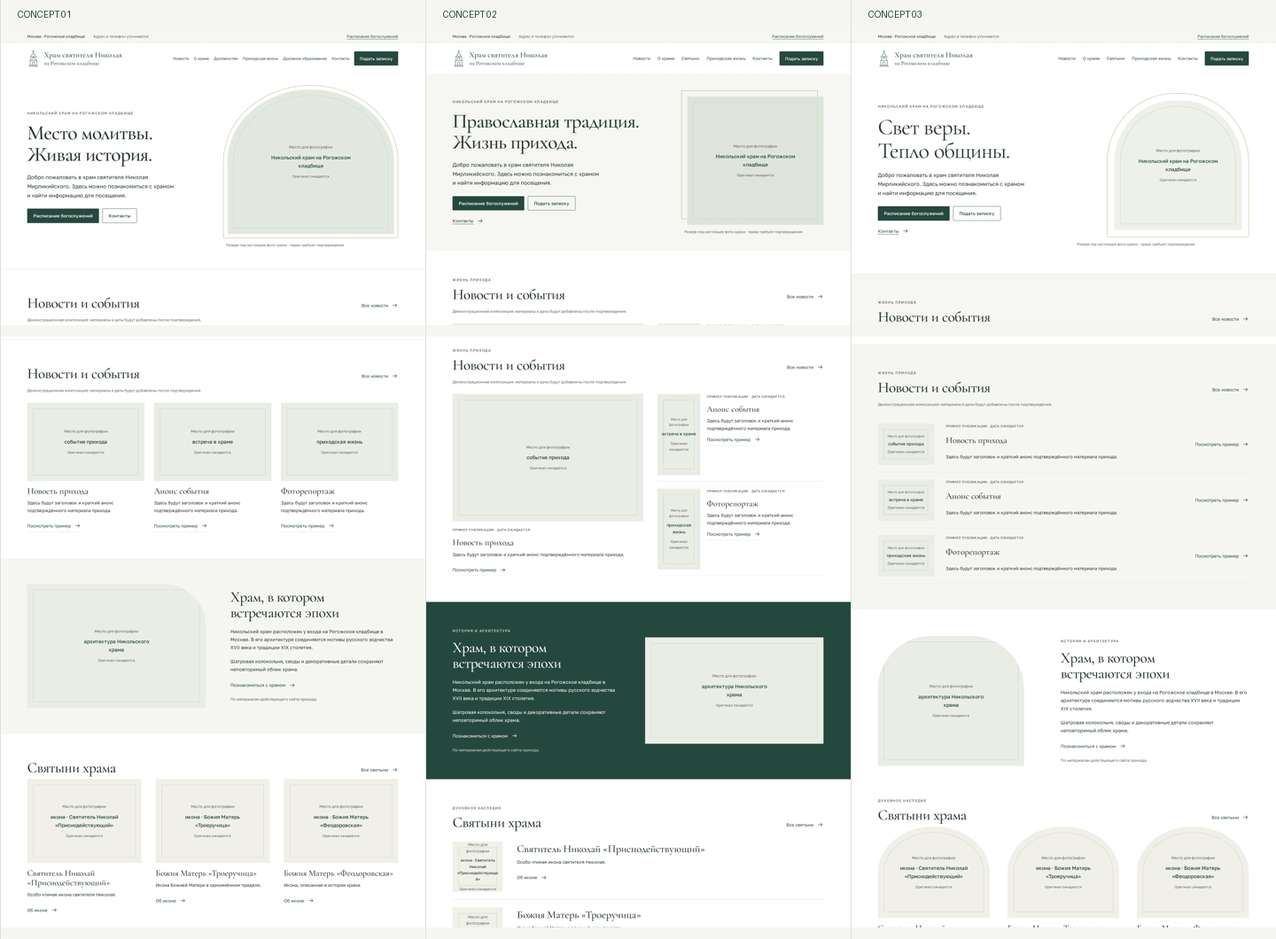
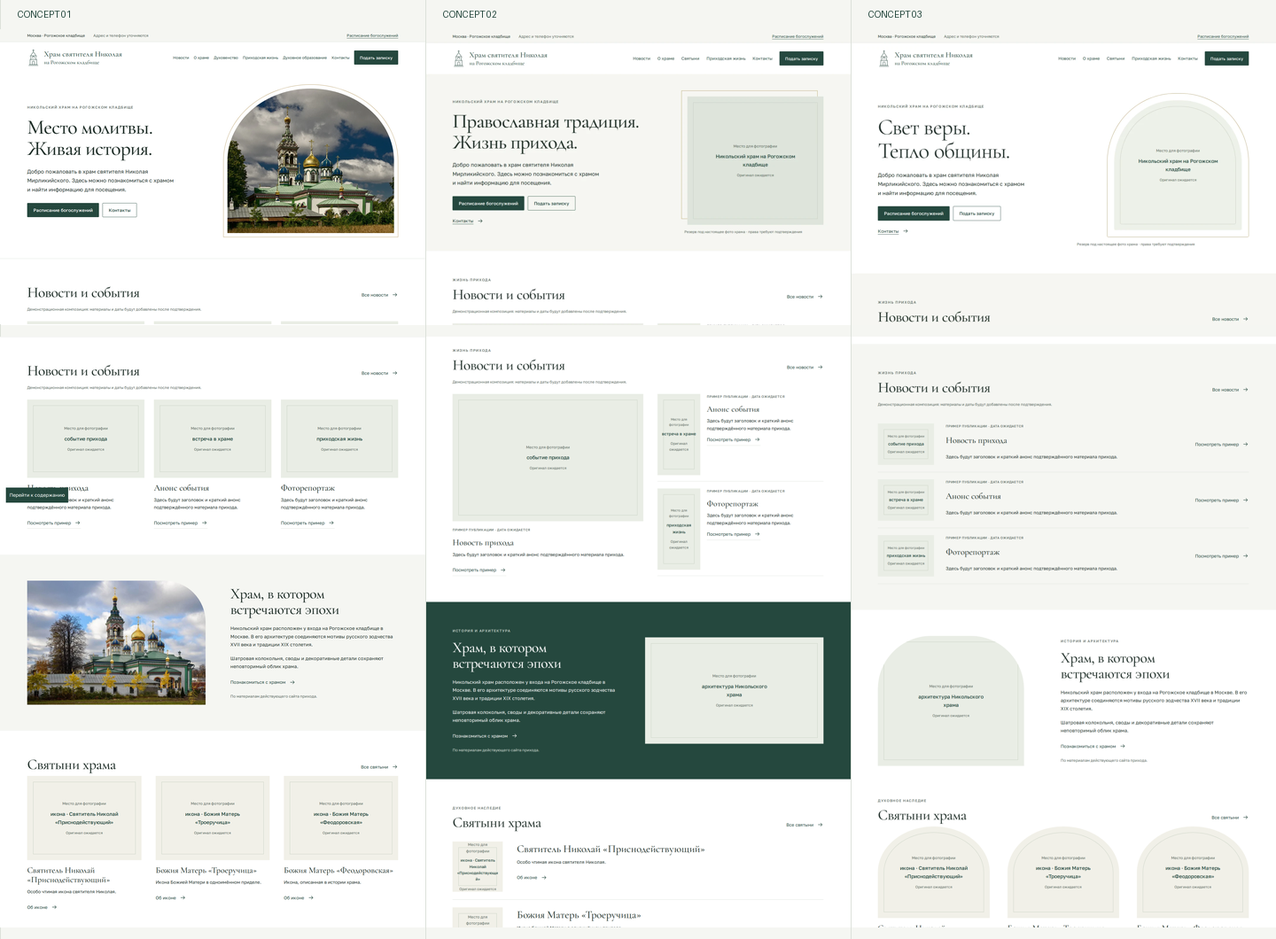
Integrate provided temple photos into selected homepage

diff --git a/concepts/concept-01.html b/concepts/concept-01.html
@@ -3,9 +3,9 @@
 <body class="concept-01"><a class="skip-link" href="#main">Перейти к содержанию</a>
 <header><div class="topbar"><div class="container topbar-inner"><span>Москва · Рогожское кладбище</span><span class="contact-pending">Адрес и телефон уточняются</span><button type="button" class="utility-link" data-page="Расписание богослужений" data-path="pages/schedule.html">Расписание богослужений</button></div></div>
 <div class="container main-header"><a class="brand" href="#main" aria-label="Храм святителя Николая на Рогожском кладбище"><img src="../images/temple-mark.svg" alt="" width="42" height="58"><span>Храм святителя Николая<small>на Рогожском кладбище</small></span></a><button class="menu-toggle btn btn-outline-primary" aria-expanded="false" aria-controls="primary-nav">Меню</button><nav id="primary-nav" aria-label="Основная навигация"><a href="#news">Новости</a><a href="#about">О храме</a><button type="button" class="nav-link-button" data-page="Духовенство" data-path="pages/clergy.html">Духовенство</button><a href="#community">Приходская жизнь</a><button type="button" class="nav-link-button" data-page="Духовное образование" data-path="pages/education.html">Духовное образование</button><a href="#contacts">Контакты</a><button type="button" class="btn btn-primary" data-page="Подать записку" data-path="pages/notes.html">Подать записку</button></nav></div></header>
-<main id="main"><section class="hero"><div class="container"><div class="row align-items-center g-5"><div class="col-md-6 hero-copy"><p class="eyebrow">Никольский храм на Рогожском кладбище</p><h1>Место молитвы.<br>Живая история.</h1><p class="lead">Добро пожаловать в храм святителя Николая Мирликийского. Здесь можно познакомиться с храмом и найти информацию для посещения.</p><div class="hero-actions"><button type="button" class="btn btn-primary" data-page="Расписание богослужений" data-path="pages/schedule.html">Расписание богослужений</button><a class="btn btn-outline-primary" href="#contacts">Контакты</a></div></div><div class="col-md-6 hero-art"><div class="hero-frame"><div class="media-placeholder hero-media" role="img" aria-label="Место для фотографии: Никольский храм на Рогожском кладбище. Оригинал ожидается"><span class="media-line" aria-hidden="true"></span><span class="media-caption">Место для фотографии<br><strong>Никольский храм на Рогожском кладбище</strong><small>Оригинал ожидается</small></span></div></div><p class="photo-note">Резерв под настоящее фото храма · права требуют подтверждения</p></div></div></div></section>
+<main id="main"><section class="hero"><div class="container"><div class="row align-items-center g-5"><div class="col-md-6 hero-copy"><p class="eyebrow">Никольский храм на Рогожском кладбище</p><h1>Место молитвы.<br>Живая история.</h1><p class="lead">Добро пожаловать в храм святителя Николая Мирликийского. Здесь можно познакомиться с храмом и найти информацию для посещения.</p><div class="hero-actions"><button type="button" class="btn btn-primary" data-page="Расписание богослужений" data-path="pages/schedule.html">Расписание богослужений</button><a class="btn btn-outline-primary" href="#contacts">Контакты</a></div></div><div class="col-md-6 hero-art"><div class="hero-frame"><div class="temple-photo hero-media"><img src="../images/temple/temple-hero-800.webp" srcset="../images/temple/temple-hero-480.webp 480w, ../images/temple/temple-hero-800.webp 800w, ../images/temple/temple-hero-1200.webp 1200w" sizes="(min-width: 1400px) 620px, (min-width: 1200px) 530px, (min-width: 992px) 440px, (min-width: 768px) 330px, calc(100vw - 68px)" width="1200" height="904" alt="Никольский храм на Рогожском кладбище: колокольня и купола" decoding="async" fetchpriority="high" loading="eager"></div></div></div></div></div></section>
 <section id="news" class="section news-section"><div class="container"><div class="section-heading"><div><h2>Новости и события</h2></div><button type="button" class="text-link" data-page="Все новости" data-path="pages/news.html">Все новости<svg class="arrow" viewBox="0 0 24 24" aria-hidden="true"><path d="M4 12h15m-6-6 6 6-6 6"/></svg></button></div><p class="demo-note">Демонстрационная композиция: материалы и даты будут добавлены после подтверждения.</p><div class="news-layout"><article class="news-item"><div class="media-placeholder news-media" role="img" aria-label="Место для фотографии: событие прихода. Оригинал ожидается"><span class="media-line" aria-hidden="true"></span><span class="media-caption">Место для фотографии<br><strong>событие прихода</strong><small>Оригинал ожидается</small></span></div><div class="news-copy"><h3>Новость прихода</h3><p>Здесь будут заголовок и краткий анонс подтверждённого материала прихода.</p><button type="button" class="text-link" data-page="Посмотреть пример" data-path="pages/news-article.html">Посмотреть пример<svg class="arrow" viewBox="0 0 24 24" aria-hidden="true"><path d="M4 12h15m-6-6 6 6-6 6"/></svg></button></div></article><article class="news-item"><div class="media-placeholder news-media" role="img" aria-label="Место для фотографии: встреча в храме. Оригинал ожидается"><span class="media-line" aria-hidden="true"></span><span class="media-caption">Место для фотографии<br><strong>встреча в храме</strong><small>Оригинал ожидается</small></span></div><div class="news-copy"><h3>Анонс события</h3><p>Здесь будут заголовок и краткий анонс подтверждённого материала прихода.</p><button type="button" class="text-link" data-page="Посмотреть пример" data-path="pages/news-article.html">Посмотреть пример<svg class="arrow" viewBox="0 0 24 24" aria-hidden="true"><path d="M4 12h15m-6-6 6 6-6 6"/></svg></button></div></article><article class="news-item"><div class="media-placeholder news-media" role="img" aria-label="Место для фотографии: приходская жизнь. Оригинал ожидается"><span class="media-line" aria-hidden="true"></span><span class="media-caption">Место для фотографии<br><strong>приходская жизнь</strong><small>Оригинал ожидается</small></span></div><div class="news-copy"><h3>Фоторепортаж</h3><p>Здесь будут заголовок и краткий анонс подтверждённого материала прихода.</p><button type="button" class="text-link" data-page="Посмотреть пример" data-path="pages/news-article.html">Посмотреть пример<svg class="arrow" viewBox="0 0 24 24" aria-hidden="true"><path d="M4 12h15m-6-6 6 6-6 6"/></svg></button></div></article></div></div></section>
-<section id="about" class="section about-section"><div class="container"><div class="row align-items-center g-5"><div class="col-md-6 about-art"><div class="media-placeholder about-media" role="img" aria-label="Место для фотографии: архитектура Никольского храма. Оригинал ожидается"><span class="media-line" aria-hidden="true"></span><span class="media-caption">Место для фотографии<br><strong>архитектура Никольского храма</strong><small>Оригинал ожидается</small></span></div></div><div class="col-md-6 about-copy"><h2>Храм, в котором<br>встречаются эпохи</h2><p>Никольский храм расположен у входа на Рогожское кладбище в Москве. В его архитектуре соединяются мотивы русского зодчества XVII века и традиции XIX столетия.</p><p>Шатровая колокольня, своды и декоративные детали сохраняют неповторимый облик храма.</p><button type="button" class="text-link" data-page="Познакомиться с храмом" data-path="pages/about.html">Познакомиться с храмом<svg class="arrow" viewBox="0 0 24 24" aria-hidden="true"><path d="M4 12h15m-6-6 6 6-6 6"/></svg></button><p class="source-note">По материалам действующего сайта прихода.</p></div></div></div></section>
+<section id="about" class="section about-section"><div class="container"><div class="row align-items-center g-5"><div class="col-md-6 about-art"><div class="temple-photo about-media"><img src="../images/temple/temple-about-800.webp" srcset="../images/temple/temple-about-480.webp 480w, ../images/temple/temple-about-800.webp 800w, ../images/temple/temple-about-1000.webp 1000w" sizes="(min-width: 1400px) 620px, (min-width: 1200px) 530px, (min-width: 992px) 440px, (min-width: 768px) 330px, calc(100vw - 68px)" width="1000" height="695" alt="Общий вид Никольского храма на Рогожском кладбище" decoding="async" loading="lazy"></div></div><div class="col-md-6 about-copy"><h2>Храм, в котором<br>встречаются эпохи</h2><p>Никольский храм расположен у входа на Рогожское кладбище в Москве. В его архитектуре соединяются мотивы русского зодчества XVII века и традиции XIX столетия.</p><p>Шатровая колокольня, своды и декоративные детали сохраняют неповторимый облик храма.</p><button type="button" class="text-link" data-page="Познакомиться с храмом" data-path="pages/about.html">Познакомиться с храмом<svg class="arrow" viewBox="0 0 24 24" aria-hidden="true"><path d="M4 12h15m-6-6 6 6-6 6"/></svg></button><p class="source-note">По материалам действующего сайта прихода.</p></div></div></div></section>
 <section id="shrines" class="section shrine-section"><div class="container"><div class="section-heading"><div><h2>Святыни храма</h2></div><button type="button" class="text-link" data-page="Все святыни" data-path="pages/shrines.html">Все святыни<svg class="arrow" viewBox="0 0 24 24" aria-hidden="true"><path d="M4 12h15m-6-6 6 6-6 6"/></svg></button></div><div class="shrine-layout"><article class="shrine-item"><div class="media-placeholder shrine-media" role="img" aria-label="Место для фотографии: икона · Святитель Николай «Приснодействующий». Оригинал ожидается"><span class="media-line" aria-hidden="true"></span><span class="media-caption">Место для фотографии<br><strong>икона · Святитель Николай «Приснодействующий»</strong><small>Оригинал ожидается</small></span></div><div><h3>Святитель Николай «Приснодействующий»</h3><p>Особо чтимая икона святителя Николая.</p><button type="button" class="text-link" data-page="Об иконе" data-path="pages/shrine.html">Об иконе<svg class="arrow" viewBox="0 0 24 24" aria-hidden="true"><path d="M4 12h15m-6-6 6 6-6 6"/></svg></button></div></article><article class="shrine-item"><div class="media-placeholder shrine-media" role="img" aria-label="Место для фотографии: икона · Божия Матерь «Троеручица». Оригинал ожидается"><span class="media-line" aria-hidden="true"></span><span class="media-caption">Место для фотографии<br><strong>икона · Божия Матерь «Троеручица»</strong><small>Оригинал ожидается</small></span></div><div><h3>Божия Матерь «Троеручица»</h3><p>Икона Божией Матери в одноимённом приделе.</p><button type="button" class="text-link" data-page="Об иконе" data-path="pages/shrine.html">Об иконе<svg class="arrow" viewBox="0 0 24 24" aria-hidden="true"><path d="M4 12h15m-6-6 6 6-6 6"/></svg></button></div></article><article class="shrine-item"><div class="media-placeholder shrine-media" role="img" aria-label="Место для фотографии: икона · Божия Матерь «Феодоровская». Оригинал ожидается"><span class="media-line" aria-hidden="true"></span><span class="media-caption">Место для фотографии<br><strong>икона · Божия Матерь «Феодоровская»</strong><small>Оригинал ожидается</small></span></div><div><h3>Божия Матерь «Феодоровская»</h3><p>Икона, описанная в истории храма.</p><button type="button" class="text-link" data-page="Об иконе" data-path="pages/shrine.html">Об иконе<svg class="arrow" viewBox="0 0 24 24" aria-hidden="true"><path d="M4 12h15m-6-6 6 6-6 6"/></svg></button></div></article></div></div></section>
 <section id="community" class="section community-section"><div class="container"><div class="community-layout"><div class="community-copy"><h2>Приходская жизнь</h2><p class="lead">Вера объединяет людей.</p><p>В этом разделе будут рассказы о людях прихода, встречах и совместных делах.</p><p class="demo-note">Демонстрационный анонс. Направления деятельности и фотографии ожидают подтверждения.</p><nav class="community-links" aria-label="Направления приходской жизни"><button type="button" class="text-link" data-page="Жизнь прихода" data-path="pages/community.html">Жизнь прихода<svg class="arrow" viewBox="0 0 24 24" aria-hidden="true"><path d="M4 12h15m-6-6 6 6-6 6"/></svg></button><button type="button" class="text-link" data-page="Воскресная школа" data-path="pages/sunday-school.html">Воскресная школа<svg class="arrow" viewBox="0 0 24 24" aria-hidden="true"><path d="M4 12h15m-6-6 6 6-6 6"/></svg></button><button type="button" class="text-link" data-page="Детские кружки" data-path="pages/children-activities.html">Детские кружки<svg class="arrow" viewBox="0 0 24 24" aria-hidden="true"><path d="M4 12h15m-6-6 6 6-6 6"/></svg></button><button type="button" class="text-link" data-page="Занятия для взрослых" data-path="pages/adult-classes.html">Занятия для взрослых<svg class="arrow" viewBox="0 0 24 24" aria-hidden="true"><path d="M4 12h15m-6-6 6 6-6 6"/></svg></button></nav></div><div class="media-placeholder community-media" role="img" aria-label="Место для фотографии: люди и события прихода. Оригинал ожидается"><span class="media-line" aria-hidden="true"></span><span class="media-caption">Место для фотографии<br><strong>люди и события прихода</strong><small>Оригинал ожидается</small></span></div></div></div></section>
 <section id="contacts" class="section contacts-section"><div class="container"><div class="row g-5 align-items-center"><div class="col-md-5"><h2>Контакты и карта</h2><p class="lead">Москва<br>Рогожское кладбище</p><dl><dt>Точный адрес</dt><dd>Ожидает подтверждения</dd><dt>Телефон и часы работы</dt><dd>Ожидают подтверждения</dd></dl><button type="button" class="btn btn-outline-primary" data-page="Как добраться" data-path="pages/contacts.html">Как добраться</button></div><div class="col-md-7"><div class="map-placeholder"><span class="map-cross" aria-hidden="true"></span><strong>Яндекс Карта</strong><p>Демонстрационная заглушка</p><small>Подключим после проверки адреса.<br>Маркер не показывает реальное местоположение.</small></div></div></div></div></section></main>

diff --git a/index.html b/index.html
@@ -3,9 +3,9 @@
 <body class="concept-01"><a class="skip-link" href="#main">Перейти к содержанию</a>
 <header><div class="topbar"><div class="container topbar-inner"><span>Москва · Рогожское кладбище</span><span class="contact-pending">Адрес и телефон уточняются</span><button type="button" class="utility-link" data-page="Расписание богослужений" data-path="pages/schedule.html">Расписание богослужений</button></div></div>
 <div class="container main-header"><a class="brand" href="#main" aria-label="Храм святителя Николая на Рогожском кладбище"><img src="images/temple-mark.svg" alt="" width="42" height="58"><span>Храм святителя Николая<small>на Рогожском кладбище</small></span></a><button class="menu-toggle btn btn-outline-primary" aria-expanded="false" aria-controls="primary-nav">Меню</button><nav id="primary-nav" aria-label="Основная навигация"><a href="#news">Новости</a><a href="#about">О храме</a><button type="button" class="nav-link-button" data-page="Духовенство" data-path="pages/clergy.html">Духовенство</button><a href="#community">Приходская жизнь</a><button type="button" class="nav-link-button" data-page="Духовное образование" data-path="pages/education.html">Духовное образование</button><a href="#contacts">Контакты</a><button type="button" class="btn btn-primary" data-page="Подать записку" data-path="pages/notes.html">Подать записку</button></nav></div></header>
-<main id="main"><section class="hero"><div class="container"><div class="row align-items-center g-5"><div class="col-md-6 hero-copy"><p class="eyebrow">Никольский храм на Рогожском кладбище</p><h1>Место молитвы.<br>Живая история.</h1><p class="lead">Добро пожаловать в храм святителя Николая Мирликийского. Здесь можно познакомиться с храмом и найти информацию для посещения.</p><div class="hero-actions"><button type="button" class="btn btn-primary" data-page="Расписание богослужений" data-path="pages/schedule.html">Расписание богослужений</button><a class="btn btn-outline-primary" href="#contacts">Контакты</a></div></div><div class="col-md-6 hero-art"><div class="hero-frame"><div class="media-placeholder hero-media" role="img" aria-label="Место для фотографии: Никольский храм на Рогожском кладбище. Оригинал ожидается"><span class="media-line" aria-hidden="true"></span><span class="media-caption">Место для фотографии<br><strong>Никольский храм на Рогожском кладбище</strong><small>Оригинал ожидается</small></span></div></div><p class="photo-note">Резерв под настоящее фото храма · права требуют подтверждения</p></div></div></div></section>
+<main id="main"><section class="hero"><div class="container"><div class="row align-items-center g-5"><div class="col-md-6 hero-copy"><p class="eyebrow">Никольский храм на Рогожском кладбище</p><h1>Место молитвы.<br>Живая история.</h1><p class="lead">Добро пожаловать в храм святителя Николая Мирликийского. Здесь можно познакомиться с храмом и найти информацию для посещения.</p><div class="hero-actions"><button type="button" class="btn btn-primary" data-page="Расписание богослужений" data-path="pages/schedule.html">Расписание богослужений</button><a class="btn btn-outline-primary" href="#contacts">Контакты</a></div></div><div class="col-md-6 hero-art"><div class="hero-frame"><div class="temple-photo hero-media"><img src="images/temple/temple-hero-800.webp" srcset="images/temple/temple-hero-480.webp 480w, images/temple/temple-hero-800.webp 800w, images/temple/temple-hero-1200.webp 1200w" sizes="(min-width: 1400px) 620px, (min-width: 1200px) 530px, (min-width: 992px) 440px, (min-width: 768px) 330px, calc(100vw - 68px)" width="1200" height="904" alt="Никольский храм на Рогожском кладбище: колокольня и купола" decoding="async" fetchpriority="high" loading="eager"></div></div></div></div></div></section>
 <section id="news" class="section news-section"><div class="container"><div class="section-heading"><div><h2>Новости и события</h2></div><button type="button" class="text-link" data-page="Все новости" data-path="pages/news.html">Все новости<svg class="arrow" viewBox="0 0 24 24" aria-hidden="true"><path d="M4 12h15m-6-6 6 6-6 6"/></svg></button></div><p class="demo-note">Демонстрационная композиция: материалы и даты будут добавлены после подтверждения.</p><div class="news-layout"><article class="news-item"><div class="media-placeholder news-media" role="img" aria-label="Место для фотографии: событие прихода. Оригинал ожидается"><span class="media-line" aria-hidden="true"></span><span class="media-caption">Место для фотографии<br><strong>событие прихода</strong><small>Оригинал ожидается</small></span></div><div class="news-copy"><h3>Новость прихода</h3><p>Здесь будут заголовок и краткий анонс подтверждённого материала прихода.</p><button type="button" class="text-link" data-page="Посмотреть пример" data-path="pages/news-article.html">Посмотреть пример<svg class="arrow" viewBox="0 0 24 24" aria-hidden="true"><path d="M4 12h15m-6-6 6 6-6 6"/></svg></button></div></article><article class="news-item"><div class="media-placeholder news-media" role="img" aria-label="Место для фотографии: встреча в храме. Оригинал ожидается"><span class="media-line" aria-hidden="true"></span><span class="media-caption">Место для фотографии<br><strong>встреча в храме</strong><small>Оригинал ожидается</small></span></div><div class="news-copy"><h3>Анонс события</h3><p>Здесь будут заголовок и краткий анонс подтверждённого материала прихода.</p><button type="button" class="text-link" data-page="Посмотреть пример" data-path="pages/news-article.html">Посмотреть пример<svg class="arrow" viewBox="0 0 24 24" aria-hidden="true"><path d="M4 12h15m-6-6 6 6-6 6"/></svg></button></div></article><article class="news-item"><div class="media-placeholder news-media" role="img" aria-label="Место для фотографии: приходская жизнь. Оригинал ожидается"><span class="media-line" aria-hidden="true"></span><span class="media-caption">Место для фотографии<br><strong>приходская жизнь</strong><small>Оригинал ожидается</small></span></div><div class="news-copy"><h3>Фоторепортаж</h3><p>Здесь будут заголовок и краткий анонс подтверждённого материала прихода.</p><button type="button" class="text-link" data-page="Посмотреть пример" data-path="pages/news-article.html">Посмотреть пример<svg class="arrow" viewBox="0 0 24 24" aria-hidden="true"><path d="M4 12h15m-6-6 6 6-6 6"/></svg></button></div></article></div></div></section>
-<section id="about" class="section about-section"><div class="container"><div class="row align-items-center g-5"><div class="col-md-6 about-art"><div class="media-placeholder about-media" role="img" aria-label="Место для фотографии: архитектура Никольского храма. Оригинал ожидается"><span class="media-line" aria-hidden="true"></span><span class="media-caption">Место для фотографии<br><strong>архитектура Никольского храма</strong><small>Оригинал ожидается</small></span></div></div><div class="col-md-6 about-copy"><h2>Храм, в котором<br>встречаются эпохи</h2><p>Никольский храм расположен у входа на Рогожское кладбище в Москве. В его архитектуре соединяются мотивы русского зодчества XVII века и традиции XIX столетия.</p><p>Шатровая колокольня, своды и декоративные детали сохраняют неповторимый облик храма.</p><button type="button" class="text-link" data-page="Познакомиться с храмом" data-path="pages/about.html">Познакомиться с храмом<svg class="arrow" viewBox="0 0 24 24" aria-hidden="true"><path d="M4 12h15m-6-6 6 6-6 6"/></svg></button><p class="source-note">По материалам действующего сайта прихода.</p></div></div></div></section>
+<section id="about" class="section about-section"><div class="container"><div class="row align-items-center g-5"><div class="col-md-6 about-art"><div class="temple-photo about-media"><img src="images/temple/temple-about-800.webp" srcset="images/temple/temple-about-480.webp 480w, images/temple/temple-about-800.webp 800w, images/temple/temple-about-1000.webp 1000w" sizes="(min-width: 1400px) 620px, (min-width: 1200px) 530px, (min-width: 992px) 440px, (min-width: 768px) 330px, calc(100vw - 68px)" width="1000" height="695" alt="Общий вид Никольского храма на Рогожском кладбище" decoding="async" loading="lazy"></div></div><div class="col-md-6 about-copy"><h2>Храм, в котором<br>встречаются эпохи</h2><p>Никольский храм расположен у входа на Рогожское кладбище в Москве. В его архитектуре соединяются мотивы русского зодчества XVII века и традиции XIX столетия.</p><p>Шатровая колокольня, своды и декоративные детали сохраняют неповторимый облик храма.</p><button type="button" class="text-link" data-page="Познакомиться с храмом" data-path="pages/about.html">Познакомиться с храмом<svg class="arrow" viewBox="0 0 24 24" aria-hidden="true"><path d="M4 12h15m-6-6 6 6-6 6"/></svg></button><p class="source-note">По материалам действующего сайта прихода.</p></div></div></div></section>
 <section id="shrines" class="section shrine-section"><div class="container"><div class="section-heading"><div><h2>Святыни храма</h2></div><button type="button" class="text-link" data-page="Все святыни" data-path="pages/shrines.html">Все святыни<svg class="arrow" viewBox="0 0 24 24" aria-hidden="true"><path d="M4 12h15m-6-6 6 6-6 6"/></svg></button></div><div class="shrine-layout"><article class="shrine-item"><div class="media-placeholder shrine-media" role="img" aria-label="Место для фотографии: икона · Святитель Николай «Приснодействующий». Оригинал ожидается"><span class="media-line" aria-hidden="true"></span><span class="media-caption">Место для фотографии<br><strong>икона · Святитель Николай «Приснодействующий»</strong><small>Оригинал ожидается</small></span></div><div><h3>Святитель Николай «Приснодействующий»</h3><p>Особо чтимая икона святителя Николая.</p><button type="button" class="text-link" data-page="Об иконе" data-path="pages/shrine.html">Об иконе<svg class="arrow" viewBox="0 0 24 24" aria-hidden="true"><path d="M4 12h15m-6-6 6 6-6 6"/></svg></button></div></article><article class="shrine-item"><div class="media-placeholder shrine-media" role="img" aria-label="Место для фотографии: икона · Божия Матерь «Троеручица». Оригинал ожидается"><span class="media-line" aria-hidden="true"></span><span class="media-caption">Место для фотографии<br><strong>икона · Божия Матерь «Троеручица»</strong><small>Оригинал ожидается</small></span></div><div><h3>Божия Матерь «Троеручица»</h3><p>Икона Божией Матери в одноимённом приделе.</p><button type="button" class="text-link" data-page="Об иконе" data-path="pages/shrine.html">Об иконе<svg class="arrow" viewBox="0 0 24 24" aria-hidden="true"><path d="M4 12h15m-6-6 6 6-6 6"/></svg></button></div></article><article class="shrine-item"><div class="media-placeholder shrine-media" role="img" aria-label="Место для фотографии: икона · Божия Матерь «Феодоровская». Оригинал ожидается"><span class="media-line" aria-hidden="true"></span><span class="media-caption">Место для фотографии<br><strong>икона · Божия Матерь «Феодоровская»</strong><small>Оригинал ожидается</small></span></div><div><h3>Божия Матерь «Феодоровская»</h3><p>Икона, описанная в истории храма.</p><button type="button" class="text-link" data-page="Об иконе" data-path="pages/shrine.html">Об иконе<svg class="arrow" viewBox="0 0 24 24" aria-hidden="true"><path d="M4 12h15m-6-6 6 6-6 6"/></svg></button></div></article></div></div></section>
 <section id="community" class="section community-section"><div class="container"><div class="community-layout"><div class="community-copy"><h2>Приходская жизнь</h2><p class="lead">Вера объединяет людей.</p><p>В этом разделе будут рассказы о людях прихода, встречах и совместных делах.</p><p class="demo-note">Демонстрационный анонс. Направления деятельности и фотографии ожидают подтверждения.</p><nav class="community-links" aria-label="Направления приходской жизни"><button type="button" class="text-link" data-page="Жизнь прихода" data-path="pages/community.html">Жизнь прихода<svg class="arrow" viewBox="0 0 24 24" aria-hidden="true"><path d="M4 12h15m-6-6 6 6-6 6"/></svg></button><button type="button" class="text-link" data-page="Воскресная школа" data-path="pages/sunday-school.html">Воскресная школа<svg class="arrow" viewBox="0 0 24 24" aria-hidden="true"><path d="M4 12h15m-6-6 6 6-6 6"/></svg></button><button type="button" class="text-link" data-page="Детские кружки" data-path="pages/children-activities.html">Детские кружки<svg class="arrow" viewBox="0 0 24 24" aria-hidden="true"><path d="M4 12h15m-6-6 6 6-6 6"/></svg></button><button type="button" class="text-link" data-page="Занятия для взрослых" data-path="pages/adult-classes.html">Занятия для взрослых<svg class="arrow" viewBox="0 0 24 24" aria-hidden="true"><path d="M4 12h15m-6-6 6 6-6 6"/></svg></button></nav></div><div class="media-placeholder community-media" role="img" aria-label="Место для фотографии: люди и события прихода. Оригинал ожидается"><span class="media-line" aria-hidden="true"></span><span class="media-caption">Место для фотографии<br><strong>люди и события прихода</strong><small>Оригинал ожидается</small></span></div></div></div></section>
 <section id="contacts" class="section contacts-section"><div class="container"><div class="row g-5 align-items-center"><div class="col-md-5"><h2>Контакты и карта</h2><p class="lead">Москва<br>Рогожское кладбище</p><dl><dt>Точный адрес</dt><dd>Ожидает подтверждения</dd><dt>Телефон и часы работы</dt><dd>Ожидают подтверждения</dd></dl><button type="button" class="btn btn-outline-primary" data-page="Как добраться" data-path="pages/contacts.html">Как добраться</button></div><div class="col-md-7"><div class="map-placeholder"><span class="map-cross" aria-hidden="true"></span><strong>Яндекс Карта</strong><p>Демонстрационная заглушка</p><small>Подключим после проверки адреса.<br>Маркер не показывает реальное местоположение.</small></div></div></div></div></section></main>

diff --git a/css/concepts.css b/css/concepts.css
@@ -28,3 +28,5 @@
 @media(max-width:575px){.structure-review{padding:32px 0}.structure-block{padding:28px 0}.structure-block h2{font-size:30px}}
 
 .concept-01 .community-links{display:flex;flex-wrap:wrap;align-items:flex-start;gap:12px 24px}.concept-01 .community-links .text-link{min-height:44px;max-width:100%}
+
+.concept-01 .temple-photo{overflow:hidden;background:var(--soft)}.concept-01 .temple-photo img{display:block;width:100%;height:100%;object-fit:cover}.concept-01 .hero-media img{object-position:43% 50%}.concept-01 .about-media img{object-position:54% 50%}

diff --git a/specs/assets.md b/specs/assets.md
@@ -15,3 +15,6 @@
 
 ## Фотографии пользователя — 2026-10-08
 Источник: src в ветке main (коммит 856105e); девять JPG фотографий храма, пользователь прямо разрешил использовать их в дизайне. Просмотрены локально: внешние виды и интерьер. В текущей правке ссылок не интегрируются. Для первого экрана предварительный кандидат 5139376_1000.jpg (вертикальный вид храма), для блока истории — 4016.jpg (широкий внешний вид); финальное кадрирование проверить в макете. src/info.txt не содержит дополнительных сведений об авторстве.
+
+## Использованные фото — 2026-10-08
+images/temple/temple-hero-{480,800,1200}.webp ← src/6ac5e9f93e32e73ee243f4e3989187af.jpg (1200×904); images/temple/temple-about-{480,800,1000}.webp ← src/5140740_1000.jpg (1000×695). Источник: предоставленная пользователем папка src в main; использование разрешено пользователем 2026-10-08. Оптимизация WebP без увеличения оригиналов, ретуши и изменения содержания. Предварительные кандидаты 5139376_1000.jpg/4016.jpg заменены при подборе: выбран более полный вид с колокольней и кадр без видимого водяного знака. Исходники сохраняются в main/src.

diff --git a/specs/requirements.md b/specs/requirements.md
@@ -52,3 +52,6 @@ Hero: **слева** выразительный заголовок с засеч
 
 ## Уточнение блока прихода — 2026-10-08
 Одиночный переход «Жизнь прихода» заменить группой из четырёх переходов в порядке: «Жизнь прихода», «Воскресная школа», «Детские кружки», «Занятия для взрослых». Остальная главная без изменений. Пользователь утвердил остальной макет и разрешил использовать фотографии храма из src в main; подбор и интеграция фото — следующий этап.
+
+## Фотографии главной — 2026-10-08
+Пользователь поручил этап 1: добавить фотографии из src на первый экран и в блок «О храме», проверить desktop/mobile. Предварительный знак и логотип сохранить до предоставления нового. Остальные блоки не менять.

diff --git a/specs/design.md b/specs/design.md
@@ -74,3 +74,6 @@ Bootstrap 5.3.x, стандартная 12-колоночная сетка. Те
 
 ## Переходы приходской жизни — 2026-10-08
 Четыре текстовых перехода со стрелкой под существующим анонсом, с переносом и достаточными интервалами на узких экранах. Сохранить текущую композицию и остальные блоки.
+
+## Подбор фотографий — 2026-10-08
+Hero: src/6ac5e9f93e32e73ee243f4e3989187af.jpg — общий вид с колокольней; сохранить арочную маску и внешнюю тонкую линию, контролировать верх колокольни. История: src/5140740_1000.jpg — спокойный широкий внешний вид. Изображения без ретуши и изменения содержания; локальные WebP уменьшенных размеров, object-fit:cover, alt. Hero high priority, ниже экрана lazy. Логотип не изменяется.
